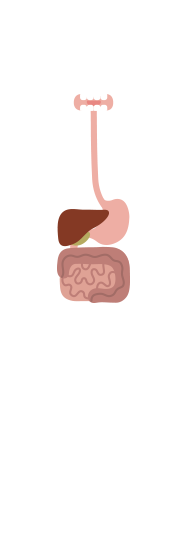
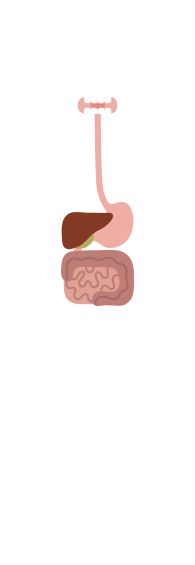
Updates to responsive styles and illustrations

diff --git a/assets/styles/layouts/_pages.scss b/assets/styles/layouts/_pages.scss
@@ -316,8 +316,15 @@
 		background: url(../images/skin-layer5.png) no-repeat center;
 	}
 	.panel--info6 & {
-		background: url(../images/skin-layer6.png) no-repeat center;
+		background: url(../images/skin-layer-final.png) no-repeat center;
 	}
+	
+	@include media-breakpoint-up(lg) {
+		.panel--info6 & {			
+			background: url(../images/skin-layer6.png) no-repeat center;
+		}
+	}
+
 	.panel--info7 & {
 		background: url(../images/skin-layer7.png) no-repeat center;
 	}
@@ -329,6 +336,11 @@
 .content--lift {	
 	position: relative;
 	z-index: 4;
+	width: 100%;
+	flex-direction: column;
+	align-items: center;
+    justify-content: center;
+    display: flex;
 }
 
 

diff --git a/contact.php b/contact.php
@@ -17,79 +17,112 @@ include_once('dist/includes/head.inc.php'); ?>
 
       <!-- INNER CONTAINER -->
       <div id="contact" class="inner-container page--contact">
-        <ul id="sub-nav" class="nav flex-column" role="tablist">
-          <li class="nav-item"><a href="#panel-info1" class="nav-link scroll-to">Part 1</a></li>
-          <li class="nav-item"><a href="#panel-info2" class="nav-link scroll-to">Part 2</a></li>
-          <li class="nav-item"><a href="#panel-info3" class="nav-link scroll-to">Part 3</a></li>
-          <li class="nav-item"><a href="#panel-info4" class="nav-link scroll-to">Part 4</a></li>
-          <li class="nav-item"><a href="<?php echo $root ?>/about.php" class="nav-link scroll-to">Next</a></li>
-        </ul>
-
-      <div id="panel-info1" class="full-panel panel--info1">
+        
+        <div id="panel-info1" class="full-panel panel--info1">
         <div class="content-wrap">
           <div class="content-block content-block--1">          
-            <h1 class="trans-letters"><span>C</span><span>o</span><span>n</span><span>t</span><span>a</span><span>c</span><span>t</span></h1>
+            <h1 class="trans-letters"><span>C</span><span>o</span><span>n</span><span>t</span>a<span>c</span><span>t</span></h1>
             <h2>Get in touch</h2>
+
+            <ul id="sub-nav" class="nav" role="tablist">
+            <li class="nav-item"><a href="#panel-info1" class="nav-link scroll-to">01</a></li>
+            <li class="nav-item"><a href="#panel-info2" class="nav-link scroll-to">02</a></li>
+            <li class="nav-item"><a href="#panel-info3" class="nav-link scroll-to">03</a></li>
+            <li class="nav-item"><a href="#panel-info4" class="nav-link scroll-to">04</a></li>
+            <li class="nav-item"><a href="<?php echo $root ?>/contact.php" class="nav-link scroll-to">></a></li>
+          </ul>
+
           </div>
           <div class="content-block content-block--2">          
-            <h3>I design &amp; make websites</h3>          
+            <h3>Get your stalk on</h3>          
           </div>
-          <div class="content-block content-block--3"> 
+          <div class="content-block content-block--3">
+
+            <!-- CONTENT LIFT -->
+            <div class="content--lift">
             
-            <div class="skin-float">#1</div>
+              <div class="block--header">
+
+                <div class="block--header-img">
+                  <img src="dist/images/bw-smile.jpeg" alt="It's Stephen Fairbanks" />
+                </div>
+
+              </div>
+
+              
+              <div id="panel-info1" class="block--list">
+                <h3>Personal stats</h3>
+                <ul class="stat-list">
+                  <li><span>Name:</span> Stephen Fairbanks</li>
+                  <li><span>Age:</span> <?php echo $age; ?></li>
+                  <li><span>Height:</span> 6'0" (I think)</li>
+                  <li><span>Location:</span> Manchester, England</li>
+              </ul>
+            </div>
+
+            <div id="panel-info2" class="block--list">
+                <h3>A very particular set of skills</h3>
+                <ul class="stat-list">
+                  <li>Digital Design (UI)</li>
+                  <li>Adobe Creative Cloud</li>
+                  <li>CSS3 (Sass, Less)</li>
+                  <li>HTML5</li>
+                  <li>JavaScript</li>
+                  <li>WordPress</li>
+                  <li>Git / SVN</li>
+              </ul>
+            </div>
+
+            <div id="panel-info3" class="block--list">
+                <h3>Some companies I've worked with</h3>
+                <ul class="stat-list">
+                  <li><a href="http://ghosthorses.co.uk" target="_blank" class="btn-link--alt">Ghosthorses</a></li>
+                  <li><a href="http://weconvene.com" target="_blank" class="btn-link--alt">WeConvene</a></li>
+                  <li><a href="http://unshackled.com" target="_blank" class="btn-link--alt">Unshackled</a></li>
+                  <li><a href="http://codecomputerlove.com" target="_blank" class="btn-link--alt">Code Computerlove</a></li>
+                  <li><a href="http://creativespark.co.uk" target="_blank" class="btn-link--alt">Creative Spark</a></li>
+                  <li><a href="https://havaslynx.com" target="_blank" class="btn-link--alt">Havas Lynx</a></li>
+              </ul>
+            </div>
+
+            <div id="panel-info4" class="block--list">
+                <h3>Personal projects</h3>
+                <ul class="stat-list">
+                  <li><a href="http://nonbeliever.co.uk" target="_blank" class="btn-link--alt">Nonbeliever</a></li>
+                  <li><a href="http://fretmap.com" target="_blank" class="btn-link--alt">Fretmap</a></li>
+                  <li><a href="http://qwota.co.uk" target="_blank" class="btn-link--alt">Qwota</a></li>
+                  <li><a href="http://itwouldbeniceif.com" target="_blank" class="btn-link--alt">It Would Be Nice If</a></li>
+                  <li><a href="http://whatisyourproblem.co.uk" target="_blank" class="btn-link--alt">What Is Your Problem?</a></li>
+              </ul>
+            </div>
+
+            <div id="section4" class="block--list">
+                <h3>Bragging rights</h3>
+                <ul class="stat-list">
+                  <li>2 <a href="http://awwwards.com" target="_blank" class="btn-link--alt">Awwwards</a> 'Website of the Day'</li>
+                  <li>Numerous other CSS-based awards</li>
+                  <li>Features in Net magazine a few times</li>
+                  <li>11+ years experience in Design / Development</li>
+                  <li>Used to live next door to Manchester United's reserve goalkeeper</li>
+                  <li>Released 4 albums worth of music (nobody listens to them)</li>
+              </ul>
+            </div>
+
+
+            <div class="block--last">
+              <a href="<?php echo $root; ?>/" class="btn--circle" title="Home Page">Home Page</a>
+          </div>
+
+      
+            </div>
+            <!-- / CONTENT LIFT -->
 
           </div>
         </div>
       </div>
-      <div id="panel-info2" class="full-panel panel--info2">
-        <div class="content-wrap">
-          <div class="content-block content-block--1">
-          </div>
-          <div class="content-block content-block--2">
-            <h3>I enjoy making things usuable, as well as pretty</h3>       
-          </div>
-          <div class="content-block content-block--3"> 
-            <div class="skin-float">#2</div>
-          </div>
-        </div>
-      </div>
-      <div id="panel-info3" class="full-panel panel--info3">
-        <div class="content-wrap">
-          <div class="content-block content-block--1">
-          </div>
-          <div class="content-block content-block--2">
-            <h3>I mainly design in code<br />(HTML, CSS, JavaScript)</h3>        
-          </div>
-          <div class="content-block content-block--3"> 
-            <div class="skin-float">#3</div>
-          </div>
-        </div>
-      </div>
-      <div id="panel-info4" class="full-panel panel--info4">
-        <div class="content-wrap">
-          <div class="content-block content-block--1">
-          </div>
-          <div class="content-block content-block--2">
-            <h3>But I also just code OR design<br />(If that makes sense)</h3>        
-          </div>
-          <div class="content-block content-block--3"> 
-            <div class="skin-float">#4</div>
-          </div>
-        </div>
-      </div>
-      <div id="panel-info5" class="full-panel panel--info5">
-        <div class="content-wrap">
-          <div class="content-block content-block--1">
-          </div>
-          <div class="content-block content-block--2">
-            <a href="about.php">Go to Next Page</a>        
-          </div>
-          <div class="content-block content-block--3"> 
-            <div class="skin-float">#5</div>
-          </div>
-        </div>
-      </div>
+      
       <?php include_once('dist/includes/loader.inc.php'); ?>
+
     </div><!-- / INNER CONTAINER -->
     </div><!-- / BARBA CONTAINER -->
       </div>

diff --git a/index.php b/index.php
@@ -113,9 +113,13 @@ include_once('dist/includes/head.inc.php'); ?>
           <div class="content-block content-block--1 hidden-lg-down">
           </div>
           <div class="content-block content-block--2">
-            <a href="<?php echo $root; ?>/about.php" class="btn--circle" title="Next Page">Next Page</a>        
+            <!-- CONTENT LIFT -->
+            <div class="content--lift">
+              <a href="<?php echo $root; ?>/about.php" class="btn--circle" title="Next Page">Next Page</a>
+            </div>
+            <!-- / CONTENT LIFT -->
           </div>
-          <div class="content-block content-block--3"> 
+          <div class="content-block content-block--3 hidden-md-down"> 
             <div class="skin-float"></div>
           </div>
         </div>
